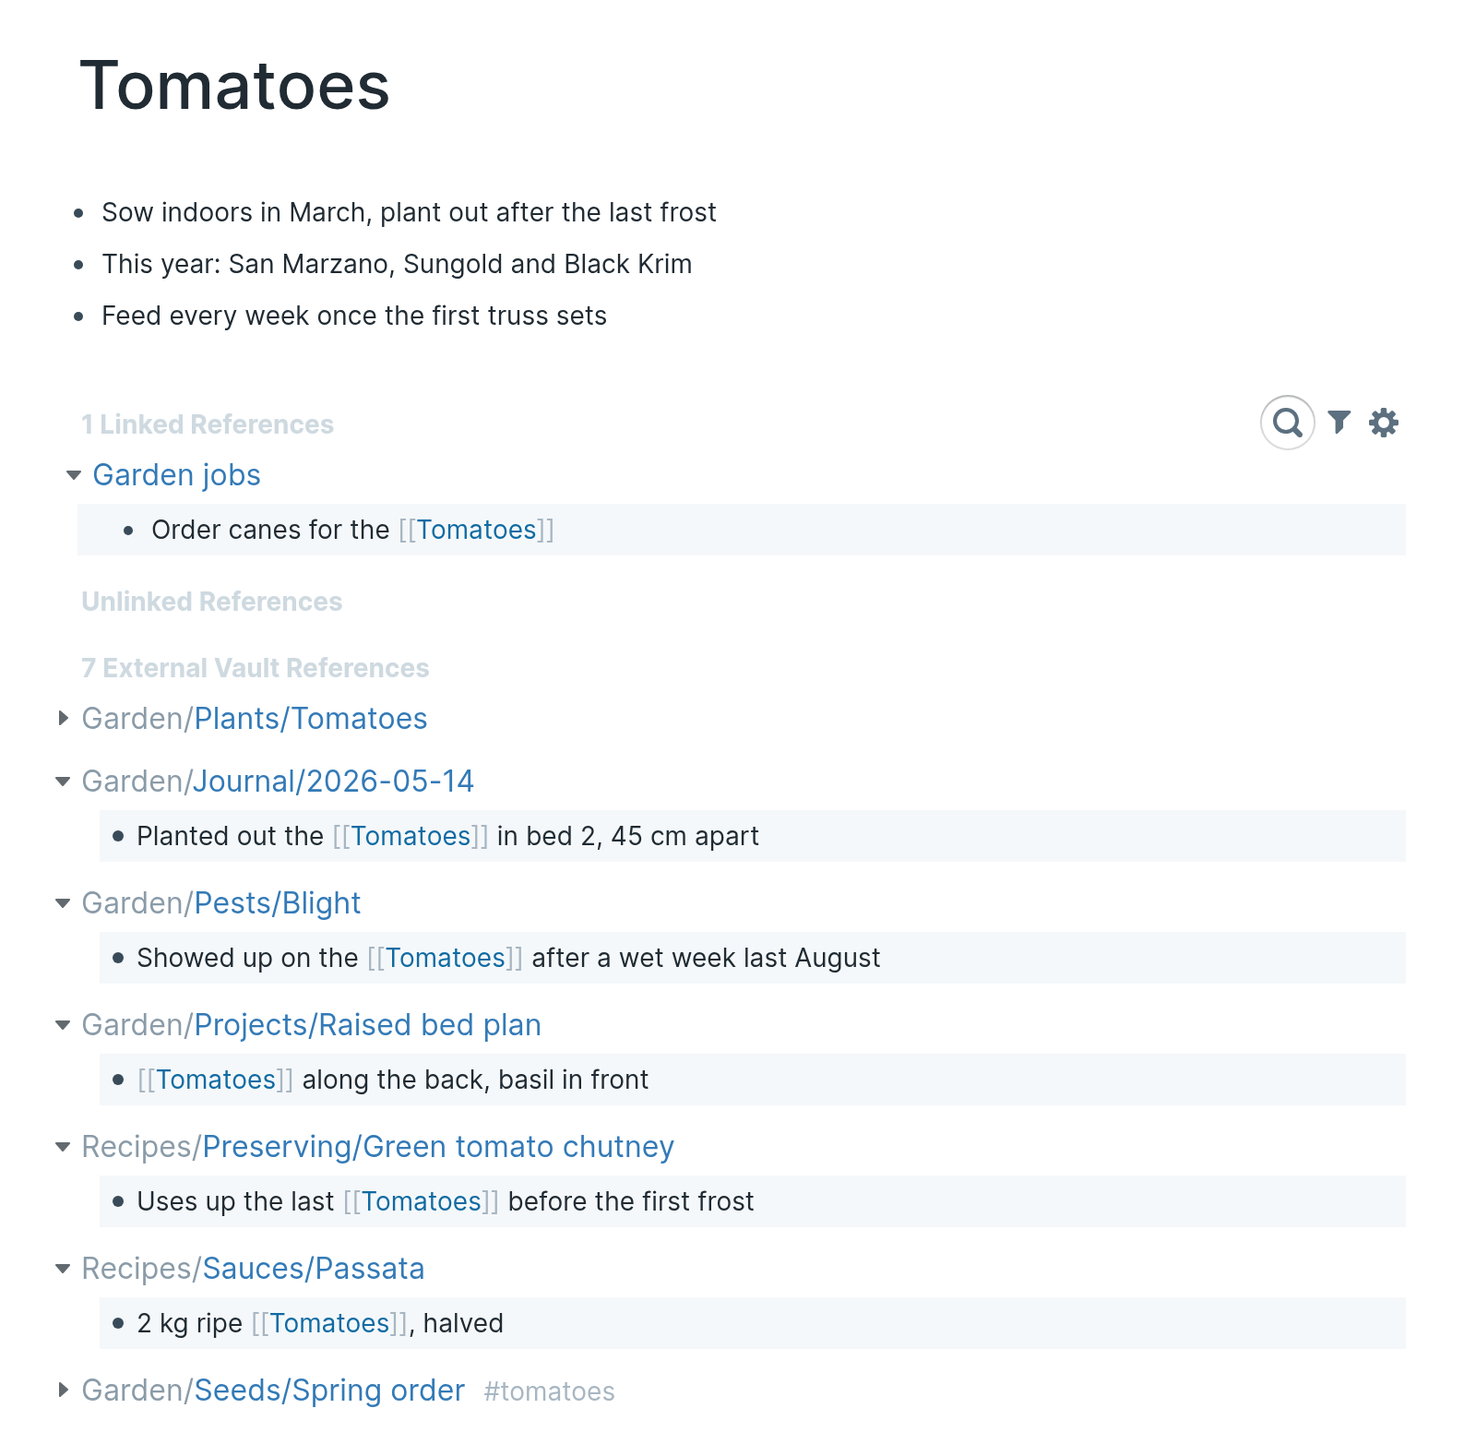
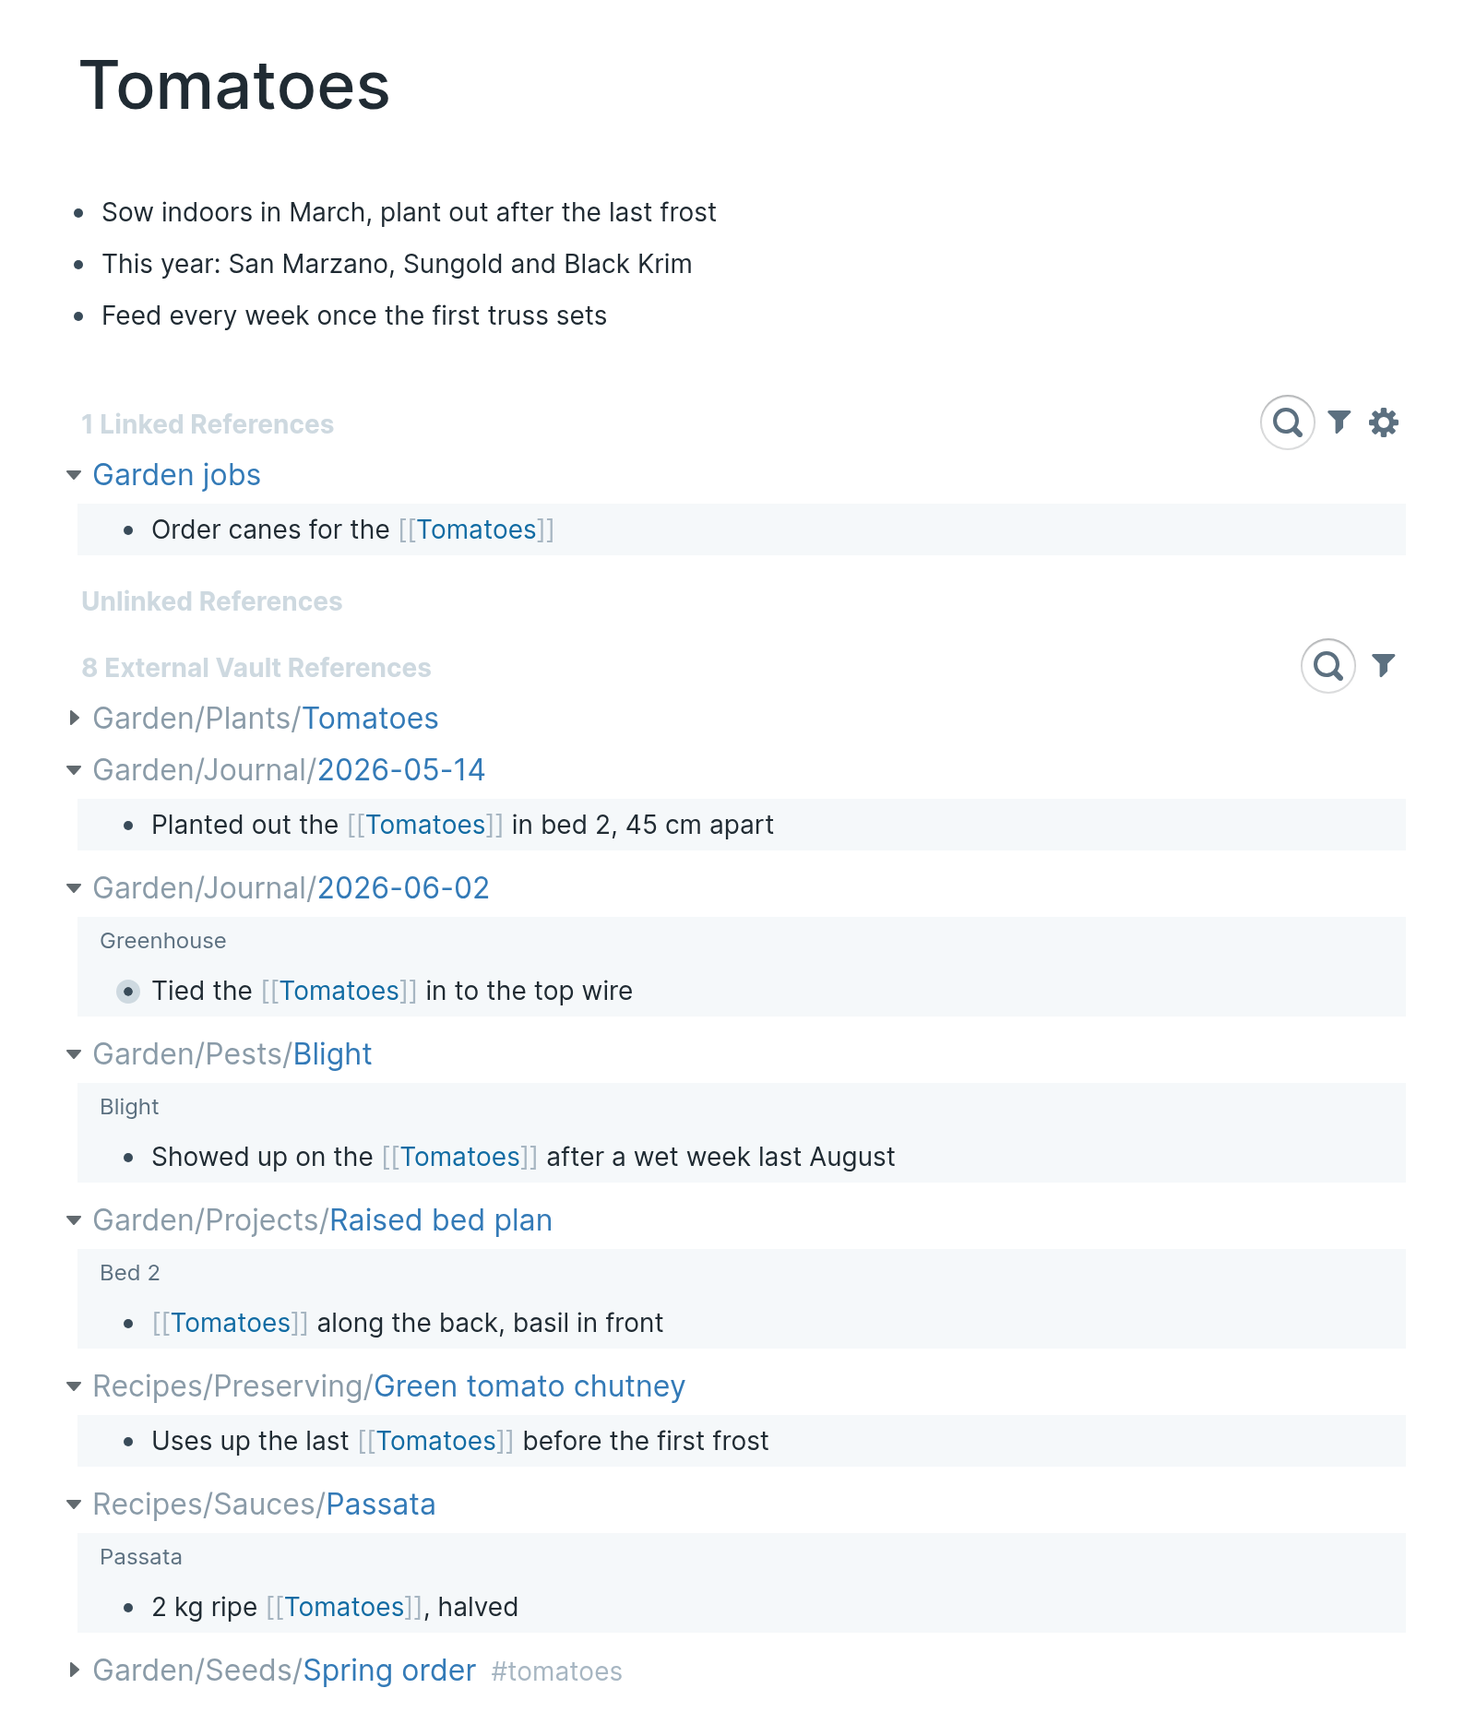
README: a section and a real-Roam picture for everything since 0.2.0 (#45)
* README: sections and real-Roam pictures for everything since 0.2.0

screenshots.mjs takes new pictures of embeds and block links, a property's
page, an OKF type page and note, and the section's search and filter. The
README gets a section for each.

Claude-Session: https://claude.ai/code/session_01S3wRcKfHqSReAkDhDej9r8

* Update README screenshots

* Screenshots: photograph a note in the main window by its own box; keep debug pictures out of git

Claude-Session: https://claude.ai/code/session_01S3wRcKfHqSReAkDhDej9r8

* Update README screenshots

* Point the README at the new screenshots

* Screenshots: crop notes to what is on them, sections to their header, open the filter below the header

Claude-Session: https://claude.ai/code/session_01S3wRcKfHqSReAkDhDej9r8

* Update README screenshots

* Point the README at the new screenshots

* CHANGELOG: the README's new sections and pictures

Claude-Session: https://claude.ai/code/session_01S3wRcKfHqSReAkDhDej9r8

---------

diff --git a/extension/README.md b/extension/README.md
@@ -4,7 +4,7 @@
 
 See notes from your Obsidian-style vaults in your Roam graph.
 
-![External Vault References on a Roam page, listing notes from two vaults below Linked References](https://raw.githubusercontent.com/sweenzor/roam-vaults/ed6254a358567e360e8625c57a0364c11775dd9b/docs/images/one-section.png)
+![External Vault References on a Roam page, listing notes from two vaults below Linked References](https://raw.githubusercontent.com/sweenzor/roam-vaults/3f53ab81eddfb7dde53776b7678dbd54a9a81e37/docs/images/one-section.png)
 
 </div>
 
@@ -44,6 +44,15 @@ frontmatter, as the spec asks bundles to have:
 - Reference-style links (`[text][ref]` with `[ref]: target.md` below) are read as the links they stand
   for, and the lines that define them are hidden, as in Obsidian's reading view.
 
+Here a bundle of seed suppliers sits in a garden vault. The page **Supplier** lists the bundle's notes of
+that type, each by its title:
+
+![The page Supplier, listing an OKF note by its title, with its type drawn as a page reference](https://raw.githubusercontent.com/sweenzor/roam-vaults/3f53ab81eddfb7dde53776b7678dbd54a9a81e37/docs/images/okf-type-page.png)
+
+Click the title to open the note under its OKF name, with its `type` and `status` as page references:
+
+![An OKF note open in Roam's main window under its title, Heritage Seed Company](https://raw.githubusercontent.com/sweenzor/roam-vaults/3f53ab81eddfb7dde53776b7678dbd54a9a81e37/docs/images/okf-note.png)
+
 </details>
 
 ## What it shows
@@ -68,7 +77,7 @@ kinds of notes, in this order:
   folded, with the letters that differ highlighted. Every word must start with the same letter and keep its
   numbers, so `Q3 Plan` never matches `Q4 Plan`, and titles under five letters don't get them.
 
-![The note that is the page, unfolded in place](https://raw.githubusercontent.com/sweenzor/roam-vaults/ed6254a358567e360e8625c57a0364c11775dd9b/docs/images/unfolded-note.png)
+![The note that is the page, unfolded in place](https://raw.githubusercontent.com/sweenzor/roam-vaults/3f53ab81eddfb7dde53776b7678dbd54a9a81e37/docs/images/unfolded-note.png)
 
 ### Notes look like Roam blocks
 
@@ -95,20 +104,45 @@ is drawn as in Linked References, and works the same way:
   property's name is a page too, as an attribute's is in Roam: the page **author** lists the notes with an
   `author` property.
 
-![A line from a nested list, with its path above it and the items under it opened](https://raw.githubusercontent.com/sweenzor/roam-vaults/ed6254a358567e360e8625c57a0364c11775dd9b/docs/images/nested-line.png)
+![A line from a nested list, with its path above it and the items under it opened](https://raw.githubusercontent.com/sweenzor/roam-vaults/3f53ab81eddfb7dde53776b7678dbd54a9a81e37/docs/images/nested-line.png)
 
 Notes exported from Roam as Markdown come out with the same blocks, paths and links they had in Roam.
+
+### Embeds and links to blocks
+
+An embedded block, a link to a block and an embedded heading, each as Roam draws its own. The block ids
+(`^seaweed`) are hidden, as in Obsidian:
+
+![A block embed, a block reference and a heading embed from vault notes, on the page Greenhouse](https://raw.githubusercontent.com/sweenzor/roam-vaults/3f53ab81eddfb7dde53776b7678dbd54a9a81e37/docs/images/embeds.png)
+
+### Properties are pages
+
+A frontmatter property's name is a page, as an attribute's is in Roam. The page **sunlight** lists every
+note with a `sunlight` property, each drawn as the attribute block:
+
+![The page sunlight, listing two notes with a sunlight property as attribute blocks](https://raw.githubusercontent.com/sweenzor/roam-vaults/3f53ab81eddfb7dde53776b7678dbd54a9a81e37/docs/images/property-page.png)
 
 Click a note title or a line's bullet to open the whole note in Roam's main window, as a page opens. Back
 returns to where you were, and links between notes work inside it. Shift-click opens the note over the page
 instead. If you use Obsidian, click **Open in Obsidian** beside the note's title to jump to the note there. To use another
 editor, see [Opening notes in another editor](#opening-notes-in-another-editor).
 
-![A note in the main window, opened from a line, with an Open in Obsidian button](https://raw.githubusercontent.com/sweenzor/roam-vaults/ed6254a358567e360e8625c57a0364c11775dd9b/docs/images/note-viewer.png)
+![A note in the main window, opened from a line, with an Open in Obsidian button](https://raw.githubusercontent.com/sweenzor/roam-vaults/3f53ab81eddfb7dde53776b7678dbd54a9a81e37/docs/images/note-viewer.png)
+
+### Search and filter
 
 The section's header has the same search box and filter as Linked References. Search narrows the lines to
-those with the words you type. The filter lists the pages the lines link to: click one to keep only the
-lines that link to it, shift-click to hide them. The filter stays with the page while Roam is open.
+those with the words you type, and marks them as Roam marks its own:
+
+![The section searched for "bed", its header counting the lines left](https://raw.githubusercontent.com/sweenzor/roam-vaults/3f53ab81eddfb7dde53776b7678dbd54a9a81e37/docs/images/search.png)
+
+The filter lists the pages the lines link to, with how many lines link to each. Click one to keep only the
+lines that link to it, or shift-click to hide them. The filter icon turns red while a filter is on, and the
+filter stays with the page while Roam is open.
+
+![The filter open on the section, listing the pages its lines link to](https://raw.githubusercontent.com/sweenzor/roam-vaults/3f53ab81eddfb7dde53776b7678dbd54a9a81e37/docs/images/filter.png)
+
+![The section filtered to the lines that link to Blight](https://raw.githubusercontent.com/sweenzor/roam-vaults/3f53ab81eddfb7dde53776b7678dbd54a9a81e37/docs/images/filtered.png)
 
 ### Notes with a similar name
 
@@ -116,7 +150,7 @@ When no note is named after the page, the section suggests notes whose name is c
 another spelling doesn't hide a note. Here the page is **Fertiliser schedule** and the note is
 `Soil/Fertilizer schedule`:
 
-![A note with a similar name, faded, with the letter that differs highlighted](https://raw.githubusercontent.com/sweenzor/roam-vaults/ed6254a358567e360e8625c57a0364c11775dd9b/docs/images/similar-name.png)
+![A note with a similar name, faded, with the letter that differs highlighted](https://raw.githubusercontent.com/sweenzor/roam-vaults/3f53ab81eddfb7dde53776b7678dbd54a9a81e37/docs/images/similar-name.png)
 
 The section updates by itself. When you edit a note in Obsidian or any other editor, the change shows up in Roam within about a
 second.
@@ -135,7 +169,7 @@ second.
 2. Open **Settings → Roam Depot → Vaults**.
 3. Click **Add vault folder**, choose your vault folder, and allow access when asked.
 
-![The Vaults settings tab, with two vaults, the Reference counts switch and the Open notes with field](https://raw.githubusercontent.com/sweenzor/roam-vaults/ed6254a358567e360e8625c57a0364c11775dd9b/docs/images/settings.png)
+![The Vaults settings tab, with two vaults, the Reference counts switch and the Open notes with field](https://raw.githubusercontent.com/sweenzor/roam-vaults/3f53ab81eddfb7dde53776b7678dbd54a9a81e37/docs/images/settings.png)
 
 Matching notes then show up below Linked References, as **"External Vault References"**. The
 section appears only on pages that have matching vault notes. Other pages look exactly as before. The first
@@ -161,7 +195,7 @@ Everything is in **Settings → Roam Depot → Vaults**:
 - **Rescan** reads every vault again, except one whose last scan didn't finish. Only changed files are parsed.
 - **Reference counts** turns on the line of counts under each page title (see below). It's off until you turn it on.
 
-![A vault part way through a scan, with a progress bar in its row](https://raw.githubusercontent.com/sweenzor/roam-vaults/ed6254a358567e360e8625c57a0364c11775dd9b/docs/images/scan-progress.png)
+![A vault part way through a scan, with a progress bar in its row](https://raw.githubusercontent.com/sweenzor/roam-vaults/3f53ab81eddfb7dde53776b7678dbd54a9a81e37/docs/images/scan-progress.png)
 
 Vaults adds no commands to the command palette.
 
@@ -171,7 +205,7 @@ On a page with a lot of references, the vault notes are far down. Turn on **Refe
 **Settings → Roam Depot → Vaults** to see, under each page title, how many Linked, Unlinked and External Vault
 References the page has. Click a count to jump to that section.
 
-![The counts of Linked, Unlinked and External Vault References under a page title](https://raw.githubusercontent.com/sweenzor/roam-vaults/ed6254a358567e360e8625c57a0364c11775dd9b/docs/images/reference-counts.png)
+![The counts of Linked, Unlinked and External Vault References under a page title](https://raw.githubusercontent.com/sweenzor/roam-vaults/3f53ab81eddfb7dde53776b7678dbd54a9a81e37/docs/images/reference-counts.png)
 
 A count of zero is left out. Unlinked references are counted the way Roam counts them when you open that
 section: blocks that mention the page's title without linking to it.

diff --git a/extension/dist/README.md b/extension/dist/README.md
@@ -4,7 +4,7 @@
 
 See notes from your Obsidian-style vaults in your Roam graph.
 
-![External Vault References on a Roam page, listing notes from two vaults below Linked References](https://raw.githubusercontent.com/sweenzor/roam-vaults/ed6254a358567e360e8625c57a0364c11775dd9b/docs/images/one-section.png)
+![External Vault References on a Roam page, listing notes from two vaults below Linked References](https://raw.githubusercontent.com/sweenzor/roam-vaults/3f53ab81eddfb7dde53776b7678dbd54a9a81e37/docs/images/one-section.png)
 
 </div>
 
@@ -44,6 +44,15 @@ frontmatter, as the spec asks bundles to have:
 - Reference-style links (`[text][ref]` with `[ref]: target.md` below) are read as the links they stand
   for, and the lines that define them are hidden, as in Obsidian's reading view.
 
+Here a bundle of seed suppliers sits in a garden vault. The page **Supplier** lists the bundle's notes of
+that type, each by its title:
+
+![The page Supplier, listing an OKF note by its title, with its type drawn as a page reference](https://raw.githubusercontent.com/sweenzor/roam-vaults/3f53ab81eddfb7dde53776b7678dbd54a9a81e37/docs/images/okf-type-page.png)
+
+Click the title to open the note under its OKF name, with its `type` and `status` as page references:
+
+![An OKF note open in Roam's main window under its title, Heritage Seed Company](https://raw.githubusercontent.com/sweenzor/roam-vaults/3f53ab81eddfb7dde53776b7678dbd54a9a81e37/docs/images/okf-note.png)
+
 </details>
 
 ## What it shows
@@ -68,7 +77,7 @@ kinds of notes, in this order:
   folded, with the letters that differ highlighted. Every word must start with the same letter and keep its
   numbers, so `Q3 Plan` never matches `Q4 Plan`, and titles under five letters don't get them.
 
-![The note that is the page, unfolded in place](https://raw.githubusercontent.com/sweenzor/roam-vaults/ed6254a358567e360e8625c57a0364c11775dd9b/docs/images/unfolded-note.png)
+![The note that is the page, unfolded in place](https://raw.githubusercontent.com/sweenzor/roam-vaults/3f53ab81eddfb7dde53776b7678dbd54a9a81e37/docs/images/unfolded-note.png)
 
 ### Notes look like Roam blocks
 
@@ -95,20 +104,45 @@ is drawn as in Linked References, and works the same way:
   property's name is a page too, as an attribute's is in Roam: the page **author** lists the notes with an
   `author` property.
 
-![A line from a nested list, with its path above it and the items under it opened](https://raw.githubusercontent.com/sweenzor/roam-vaults/ed6254a358567e360e8625c57a0364c11775dd9b/docs/images/nested-line.png)
+![A line from a nested list, with its path above it and the items under it opened](https://raw.githubusercontent.com/sweenzor/roam-vaults/3f53ab81eddfb7dde53776b7678dbd54a9a81e37/docs/images/nested-line.png)
 
 Notes exported from Roam as Markdown come out with the same blocks, paths and links they had in Roam.
+
+### Embeds and links to blocks
+
+An embedded block, a link to a block and an embedded heading, each as Roam draws its own. The block ids
+(`^seaweed`) are hidden, as in Obsidian:
+
+![A block embed, a block reference and a heading embed from vault notes, on the page Greenhouse](https://raw.githubusercontent.com/sweenzor/roam-vaults/3f53ab81eddfb7dde53776b7678dbd54a9a81e37/docs/images/embeds.png)
+
+### Properties are pages
+
+A frontmatter property's name is a page, as an attribute's is in Roam. The page **sunlight** lists every
+note with a `sunlight` property, each drawn as the attribute block:
+
+![The page sunlight, listing two notes with a sunlight property as attribute blocks](https://raw.githubusercontent.com/sweenzor/roam-vaults/3f53ab81eddfb7dde53776b7678dbd54a9a81e37/docs/images/property-page.png)
 
 Click a note title or a line's bullet to open the whole note in Roam's main window, as a page opens. Back
 returns to where you were, and links between notes work inside it. Shift-click opens the note over the page
 instead. If you use Obsidian, click **Open in Obsidian** beside the note's title to jump to the note there. To use another
 editor, see [Opening notes in another editor](#opening-notes-in-another-editor).
 
-![A note in the main window, opened from a line, with an Open in Obsidian button](https://raw.githubusercontent.com/sweenzor/roam-vaults/ed6254a358567e360e8625c57a0364c11775dd9b/docs/images/note-viewer.png)
+![A note in the main window, opened from a line, with an Open in Obsidian button](https://raw.githubusercontent.com/sweenzor/roam-vaults/3f53ab81eddfb7dde53776b7678dbd54a9a81e37/docs/images/note-viewer.png)
+
+### Search and filter
 
 The section's header has the same search box and filter as Linked References. Search narrows the lines to
-those with the words you type. The filter lists the pages the lines link to: click one to keep only the
-lines that link to it, shift-click to hide them. The filter stays with the page while Roam is open.
+those with the words you type, and marks them as Roam marks its own:
+
+![The section searched for "bed", its header counting the lines left](https://raw.githubusercontent.com/sweenzor/roam-vaults/3f53ab81eddfb7dde53776b7678dbd54a9a81e37/docs/images/search.png)
+
+The filter lists the pages the lines link to, with how many lines link to each. Click one to keep only the
+lines that link to it, or shift-click to hide them. The filter icon turns red while a filter is on, and the
+filter stays with the page while Roam is open.
+
+![The filter open on the section, listing the pages its lines link to](https://raw.githubusercontent.com/sweenzor/roam-vaults/3f53ab81eddfb7dde53776b7678dbd54a9a81e37/docs/images/filter.png)
+
+![The section filtered to the lines that link to Blight](https://raw.githubusercontent.com/sweenzor/roam-vaults/3f53ab81eddfb7dde53776b7678dbd54a9a81e37/docs/images/filtered.png)
 
 ### Notes with a similar name
 
@@ -116,7 +150,7 @@ When no note is named after the page, the section suggests notes whose name is c
 another spelling doesn't hide a note. Here the page is **Fertiliser schedule** and the note is
 `Soil/Fertilizer schedule`:
 
-![A note with a similar name, faded, with the letter that differs highlighted](https://raw.githubusercontent.com/sweenzor/roam-vaults/ed6254a358567e360e8625c57a0364c11775dd9b/docs/images/similar-name.png)
+![A note with a similar name, faded, with the letter that differs highlighted](https://raw.githubusercontent.com/sweenzor/roam-vaults/3f53ab81eddfb7dde53776b7678dbd54a9a81e37/docs/images/similar-name.png)
 
 The section updates by itself. When you edit a note in Obsidian or any other editor, the change shows up in Roam within about a
 second.
@@ -135,7 +169,7 @@ second.
 2. Open **Settings → Roam Depot → Vaults**.
 3. Click **Add vault folder**, choose your vault folder, and allow access when asked.
 
-![The Vaults settings tab, with two vaults, the Reference counts switch and the Open notes with field](https://raw.githubusercontent.com/sweenzor/roam-vaults/ed6254a358567e360e8625c57a0364c11775dd9b/docs/images/settings.png)
+![The Vaults settings tab, with two vaults, the Reference counts switch and the Open notes with field](https://raw.githubusercontent.com/sweenzor/roam-vaults/3f53ab81eddfb7dde53776b7678dbd54a9a81e37/docs/images/settings.png)
 
 Matching notes then show up below Linked References, as **"External Vault References"**. The
 section appears only on pages that have matching vault notes. Other pages look exactly as before. The first
@@ -161,7 +195,7 @@ Everything is in **Settings → Roam Depot → Vaults**:
 - **Rescan** reads every vault again, except one whose last scan didn't finish. Only changed files are parsed.
 - **Reference counts** turns on the line of counts under each page title (see below). It's off until you turn it on.
 
-![A vault part way through a scan, with a progress bar in its row](https://raw.githubusercontent.com/sweenzor/roam-vaults/ed6254a358567e360e8625c57a0364c11775dd9b/docs/images/scan-progress.png)
+![A vault part way through a scan, with a progress bar in its row](https://raw.githubusercontent.com/sweenzor/roam-vaults/3f53ab81eddfb7dde53776b7678dbd54a9a81e37/docs/images/scan-progress.png)
 
 Vaults adds no commands to the command palette.
 
@@ -171,7 +205,7 @@ On a page with a lot of references, the vault notes are far down. Turn on **Refe
 **Settings → Roam Depot → Vaults** to see, under each page title, how many Linked, Unlinked and External Vault
 References the page has. Click a count to jump to that section.
 
-![The counts of Linked, Unlinked and External Vault References under a page title](https://raw.githubusercontent.com/sweenzor/roam-vaults/ed6254a358567e360e8625c57a0364c11775dd9b/docs/images/reference-counts.png)
+![The counts of Linked, Unlinked and External Vault References under a page title](https://raw.githubusercontent.com/sweenzor/roam-vaults/3f53ab81eddfb7dde53776b7678dbd54a9a81e37/docs/images/reference-counts.png)
 
 A count of zero is left out. Unlinked references are counted the way Roam counts them when you open that
 section: blocks that mention the page's title without linking to it.

diff --git a/extension/CHANGELOG.md b/extension/CHANGELOG.md
@@ -2,6 +2,9 @@
 
 ## 0.3.0 (unreleased)
 
+- The README has a section and a picture, taken in real Roam, for embeds and block links, property pages,
+  OKF bundles, and the section's search and filter.
+
 - External Vault References are drawn like Roam's Linked References. A line that links to the page is a
   Roam block with the headings and list items it sits under as a path above it; click a part of the path
   to open it in place, and click a line's caret to show the items nested under it. A note unfolded on the

diff --git a/extension/dist/CHANGELOG.md b/extension/dist/CHANGELOG.md
@@ -2,6 +2,9 @@
 
 ## 0.3.0 (unreleased)
 
+- The README has a section and a picture, taken in real Roam, for embeds and block links, property pages,
+  OKF bundles, and the section's search and filter.
+
 - External Vault References are drawn like Roam's Linked References. A line that links to the page is a
   Roam block with the headings and list items it sits under as a path above it; click a part of the path
   to open it in place, and click a line's caret to show the items nested under it. A note unfolded on the
